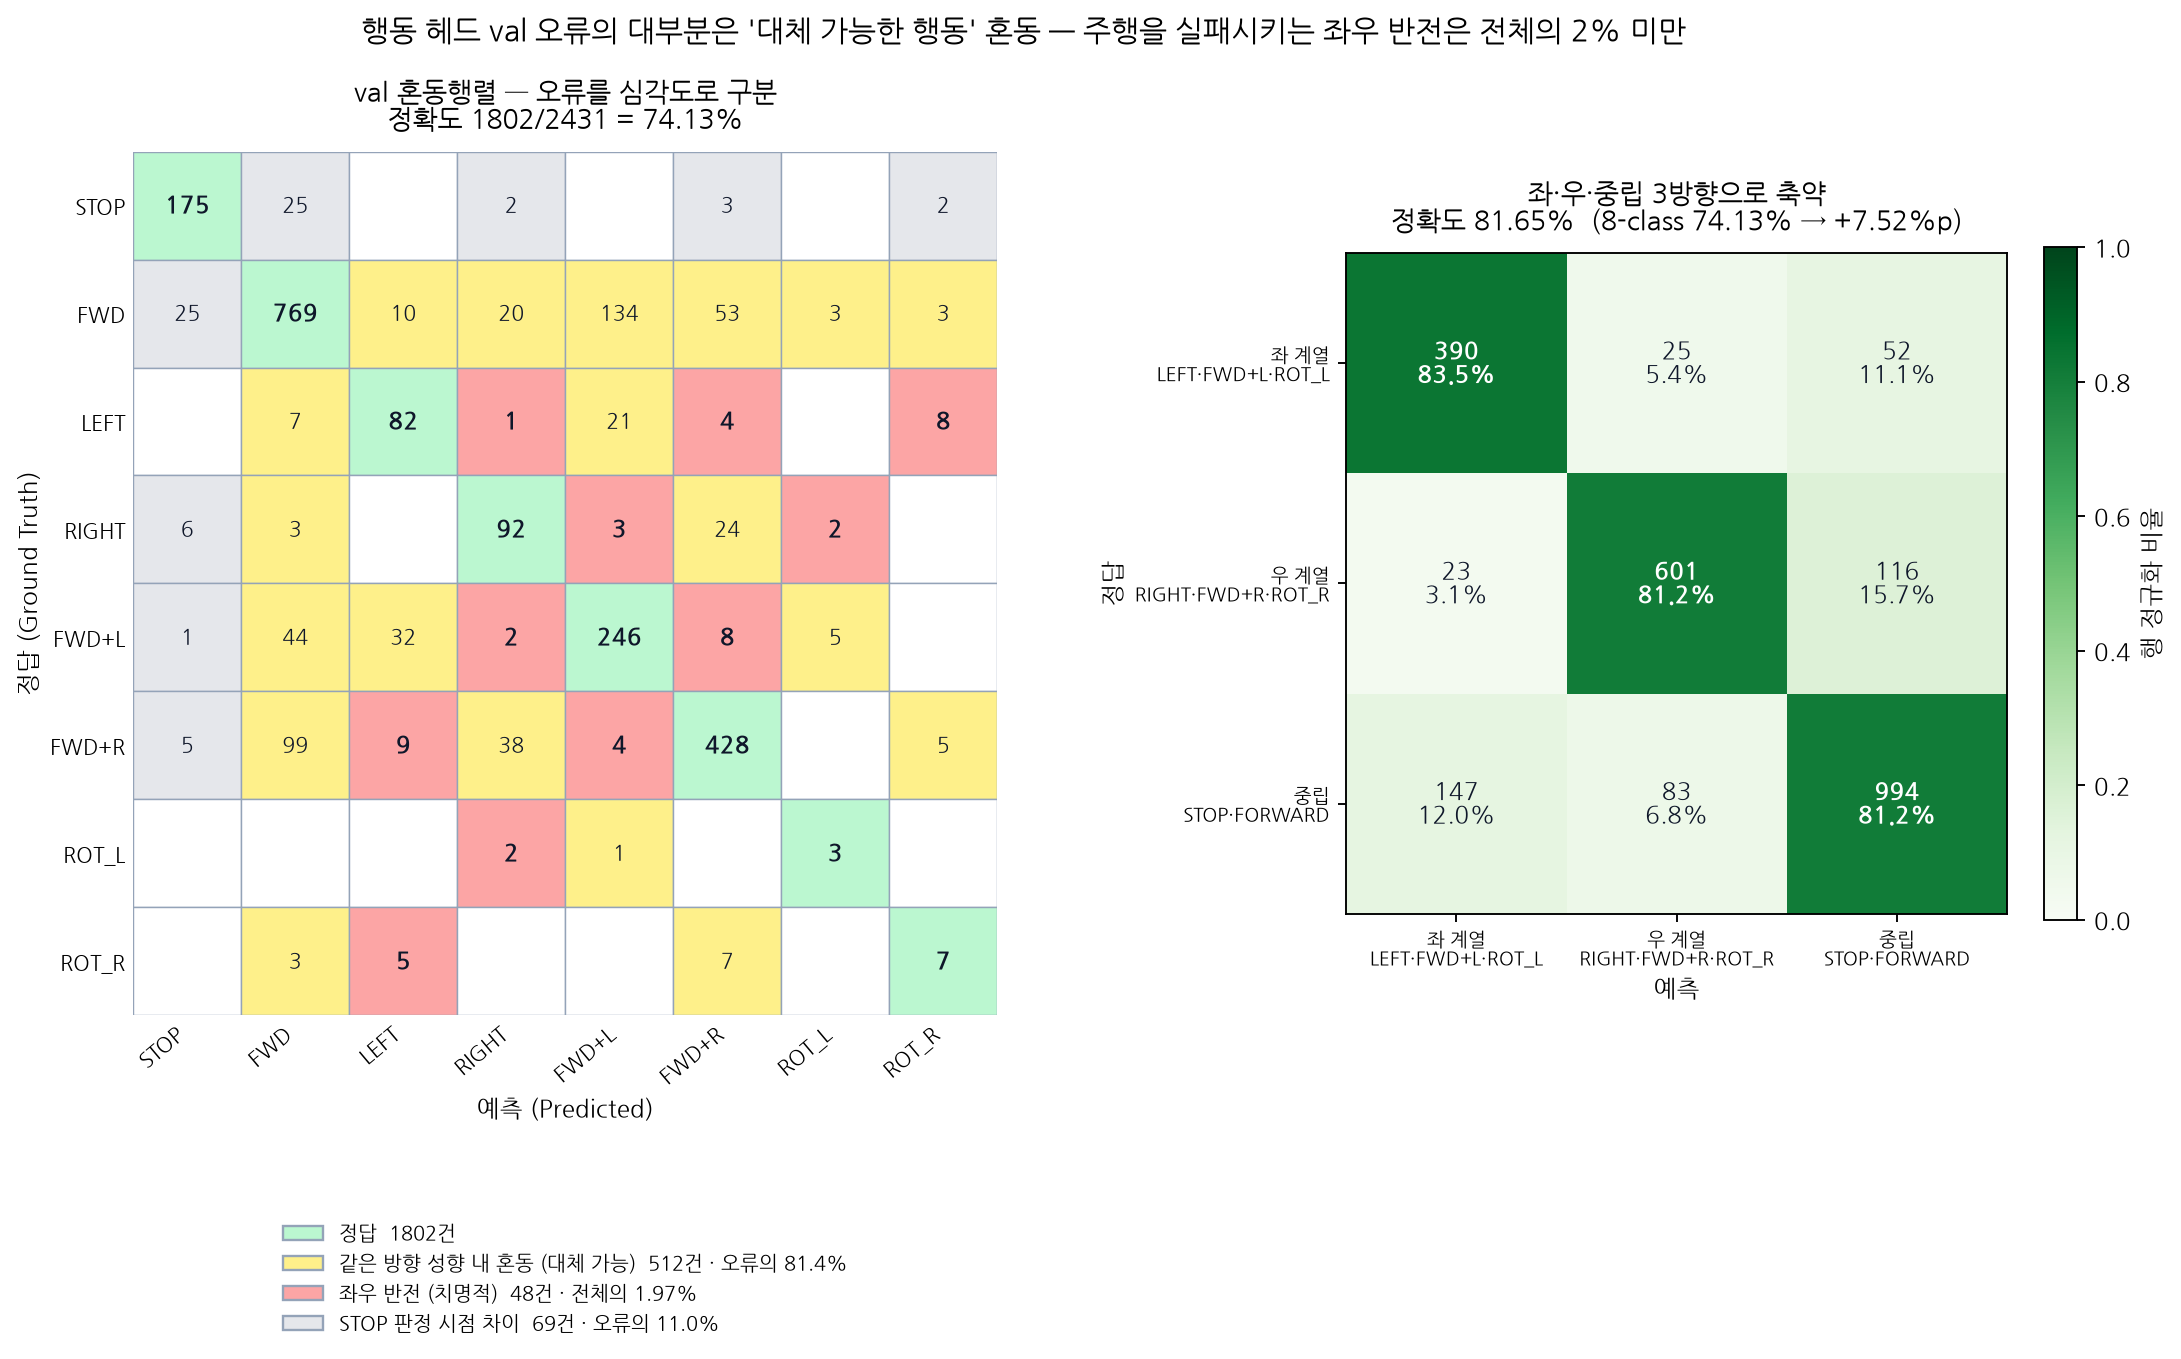
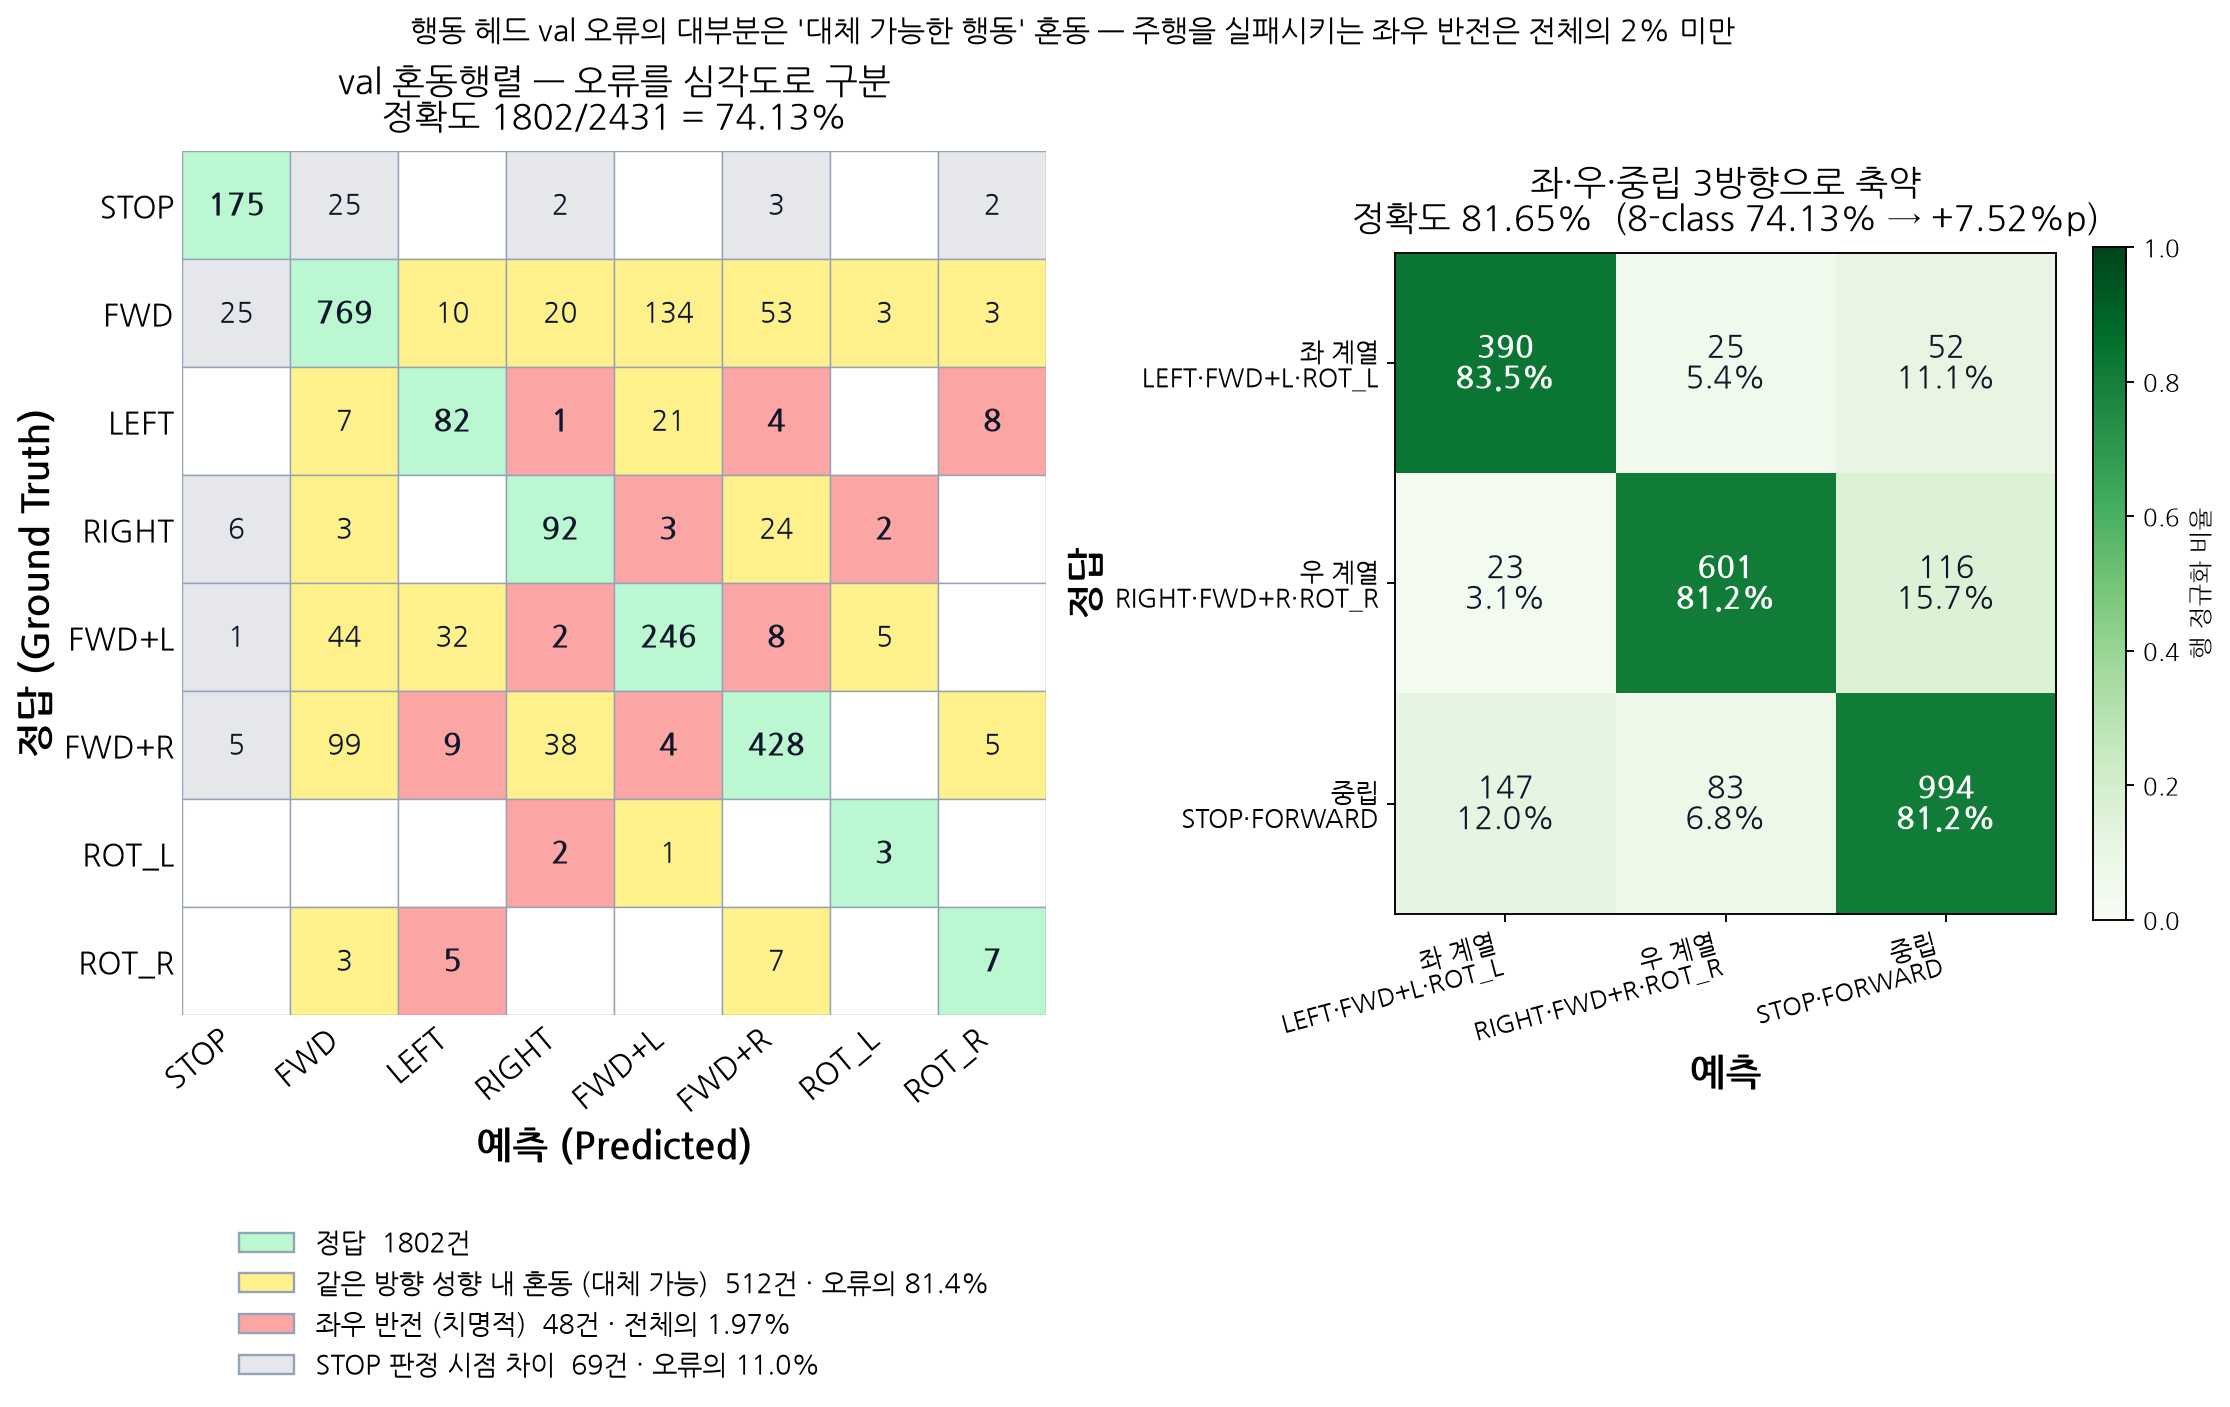
docs: enlarge axis-label fonts on two figures per author's red TODO notes
stage1_v3_training_curve.png had no dedicated plotting script (was
generated ad hoc in a prior session) — recreated it from the raw
train_stage1_v3_5cls_owl.log epoch/val_acc data with axis label fontsize
bumped 10->18. action_head_error_severity.png axis/tick/legend fonts also
bumped (10->16 axis labels, 8.5->11.5 legend) and the 3x3 panel's x-tick
labels rotated to fix an overlap the larger font introduced.

diff --git a/docs/01.paper/revision_briefing.html b/docs/01.paper/revision_briefing.html
@@ -397,12 +397,12 @@ CharShape 73개 전수 대조로 문서 전체에서 빨간 글씨(RGB 255,0,0) 
 <th style="padding:6px 8px">위치</th><th style="padding:6px 8px">메모 내용</th><th style="padding:6px 8px">상태</th>
 </tr>
 <tr style="border-bottom:1px solid #1e293b;background:rgba(74,222,128,0.06)"><td style="padding:6px 8px">§5.5 첫 문단</td><td style="padding:6px 8px">[레퍼런스 필요]</td><td style="padding:6px 8px;color:#4ade80">✅ 해소됨 — A/B/C 3편 확정(위 레퍼런스 표 참조)</td></tr>
-<tr style="border-bottom:1px solid #1e293b"><td style="padding:6px 8px">image_proj accuracy 그림 직전</td><td style="padding:6px 8px">"그래프에서 x, y축 라벨이 크게 보이도록 해야 함"</td><td style="padding:6px 8px;color:#f87171">❌ 미반영 — <code>stage1_v3_training_curve.png</code> 라벨 폰트 확대 필요</td></tr>
+<tr style="border-bottom:1px solid #1e293b;background:rgba(74,222,128,0.06)"><td style="padding:6px 8px">image_proj accuracy 그림 직전</td><td style="padding:6px 8px">"그래프에서 x, y축 라벨이 크게 보이도록 해야 함"</td><td style="padding:6px 8px;color:#4ade80">✅ 반영됨 — <code>stage1_v3_training_curve.png</code> 축 라벨 폰트 확대(18pt) 재생성</td></tr>
 <tr style="border-bottom:1px solid #1e293b"><td style="padding:6px 8px">image_proj accuracy 그림 직후</td><td style="padding:6px 8px">"Loss 그래프가 있으면 추가 필요함"</td><td style="padding:6px 8px;color:#f87171">❌ 미반영 — Stage 1 학습에 <strong>loss 로깅 자체가 없음</strong>(로그·JSON에 val_acc만 기록). loss 곡선을 그리려면 재학습하며 epoch별 loss를 새로 저장해야 함</td></tr>
-<tr><td style="padding:6px 8px">오류 심각도 표 직후</td><td style="padding:6px 8px">"그래프에서 x, y축 라벨이 크게 보이도록 해야 함"</td><td style="padding:6px 8px;color:#f87171">❌ 미반영 — <code>action_head_error_severity.png</code> 라벨 폰트 확대 필요</td></tr>
+<tr style="background:rgba(74,222,128,0.06)"><td style="padding:6px 8px">오류 심각도 표 직후</td><td style="padding:6px 8px">"그래프에서 x, y축 라벨이 크게 보이도록 해야 함"</td><td style="padding:6px 8px;color:#4ade80">✅ 반영됨 — <code>action_head_error_severity.png</code> 축 라벨 폰트 확대(16pt) 재생성</td></tr>
 </table>
-<div class="cf-item" style="margin-top:10px"><input type="checkbox" id="qa-13"><label for="qa-13">
-두 그림(stage1_v3_training_curve.png, action_head_error_severity.png) 축 라벨 폰트 확대 재생성
+<div class="cf-item" style="margin-top:10px"><input type="checkbox" id="qa-13" checked><label for="qa-13">
+두 그림(stage1_v3_training_curve.png, action_head_error_severity.png) 축 라벨 폰트 확대 재생성 — 완료
 </label></div>
 <div class="cf-item"><input type="checkbox" id="qa-14"><label for="qa-14">
 image_proj Stage 1 재학습 시 epoch별 train/val loss 로깅 추가 → loss 곡선 생성 (현재 스크립트엔 loss 기록 코드 없음, <code>scripts/train_stage1_v3_5cls_owl.py</code> 수정 필요)

diff --git a/scripts/plot_action_head_error_severity.py b/scripts/plot_action_head_error_severity.py
@@ -69,16 +69,16 @@ def main():
             if v > 0:
                 bold = (i == j) or (k == "flip")
                 ax.text(j + .5, n - 1 - i + .5, str(v), ha="center", va="center",
-                        fontsize=10 if bold else 9,
+                        fontsize=13 if bold else 12,
                         fontweight="bold" if bold else "normal",
                         color="#0f172a")
     ax.set_xlim(0, n); ax.set_ylim(0, n)
-    ax.set_xticks(np.arange(n) + .5); ax.set_xticklabels(names, rotation=40, ha="right", fontsize=9)
-    ax.set_yticks(np.arange(n) + .5); ax.set_yticklabels(names[::-1], fontsize=9)
-    ax.set_xlabel("예측 (Predicted)", fontsize=10)
-    ax.set_ylabel("정답 (Ground Truth)", fontsize=10)
+    ax.set_xticks(np.arange(n) + .5); ax.set_xticklabels(names, rotation=40, ha="right", fontsize=13)
+    ax.set_yticks(np.arange(n) + .5); ax.set_yticklabels(names[::-1], fontsize=13)
+    ax.set_xlabel("예측 (Predicted)", fontsize=16, fontweight="bold")
+    ax.set_ylabel("정답 (Ground Truth)", fontsize=16, fontweight="bold")
     ax.set_title(f"val 혼동행렬 — 오류를 심각도로 구분\n정확도 {correct}/{total} = {correct/total*100:.2f}%",
-                 fontsize=11.5, pad=10)
+                 fontsize=15, pad=10)
     ax.set_aspect("equal")
     for s in ax.spines.values():
         s.set_visible(False)
@@ -91,7 +91,7 @@ def main():
               label=f"좌우 반전 (치명적)  {agg_n['flip']}건 · 전체의 {agg_n['flip']/total*100:.2f}%"),
         Patch(facecolor=C_STOP, edgecolor="#94a3b8",
               label=f"STOP 판정 시점 차이  {agg_n['stop']}건 · 오류의 {agg_n['stop']/err*100:.1f}%"),
-    ], loc="upper center", bbox_to_anchor=(0.5, -0.22), fontsize=8.5, frameon=False)
+    ], loc="upper center", bbox_to_anchor=(0.5, -0.22), fontsize=11.5, frameon=False)
 
     # ── 우: 3x3 축약 ──
     ax2 = fig.add_subplot(gs[1])
@@ -107,13 +107,13 @@ def main():
     for i in range(3):
         for j in range(3):
             ax2.text(j, i, f"{a[i][j]}\n{rown[i][j]*100:.1f}%", ha="center", va="center",
-                     fontsize=10, fontweight="bold" if i == j else "normal",
+                     fontsize=13, fontweight="bold" if i == j else "normal",
                      color="white" if rown[i][j] > .55 else "#0f172a")
-    ax2.set_xticks(range(3)); ax2.set_xticklabels(lab3, fontsize=8)
-    ax2.set_yticks(range(3)); ax2.set_yticklabels(lab3, fontsize=8)
-    ax2.set_xlabel("예측", fontsize=10); ax2.set_ylabel("정답", fontsize=10)
+    ax2.set_xticks(range(3)); ax2.set_xticklabels(lab3, fontsize=10.5, rotation=15, ha="right")
+    ax2.set_yticks(range(3)); ax2.set_yticklabels(lab3, fontsize=11)
+    ax2.set_xlabel("예측", fontsize=16, fontweight="bold"); ax2.set_ylabel("정답", fontsize=16, fontweight="bold")
     ax2.set_title(f"좌·우·중립 3방향으로 축약\n정확도 {acc3*100:.2f}%  (8-class 74.13% → +{acc3*100-74.13:.2f}%p)",
-                  fontsize=11.5, pad=10)
+                  fontsize=15, pad=10)
     fig.colorbar(im, ax=ax2, fraction=0.046, label="행 정규화 비율")
 
     fig.suptitle("행동 헤드 val 오류의 대부분은 '대체 가능한 행동' 혼동 — 주행을 실패시키는 좌우 반전은 전체의 2% 미만",

diff --git a/scripts/plot_stage1_v3_training_curve.py b/scripts/plot_stage1_v3_training_curve.py
@@ -1,0 +1,37 @@
+#!/usr/bin/env python3
+"""image_proj Stage 1 학습 곡선 재생성 — 축 라벨 폰트 확대 (0817 hwp 빨간 메모 반영)."""
+import re
+import matplotlib
+matplotlib.use("Agg")
+import matplotlib.pyplot as plt
+
+LOG = "/home/minum/26CS/MoNaVLA/logs/train_stage1_v3_5cls_owl.log"
+OUT = "/home/minum/26CS/MoNaVLA/docs/v5/figures/stage1_v3_training_curve.png"
+
+epochs, val_acc, best = [], [], []
+with open(LOG, encoding="utf-8") as f:
+    for line in f:
+        m = re.match(r"^\s*(\d+)\s+([\d.]+)\s+([\d.]+)\s*$", line)
+        if m:
+            epochs.append(int(m.group(1)))
+            val_acc.append(float(m.group(2)) * 100)
+            best.append(float(m.group(3)) * 100)
+
+final = best[-1]
+
+plt.rcParams["font.family"] = "NanumGothic"
+plt.rcParams["axes.unicode_minus"] = False
+plt.rcParams.update({"font.size": 15})
+fig, ax = plt.subplots(figsize=(11, 6.5))
+ax.plot(epochs, val_acc, "o-", color="#38bdf8", label="epoch별 val_acc", linewidth=2, markersize=6)
+ax.plot(epochs, best, "-", color="#22c55e", label="best (누적 최고)", linewidth=3)
+ax.axhline(final, color="#f87171", linestyle="--", linewidth=1.5, label=f"최종 {final:.2f}%")
+ax.set_xlabel("epoch", fontsize=18, fontweight="bold")
+ax.set_ylabel("val 정확도 (%)", fontsize=18, fontweight="bold")
+ax.set_title("image_proj Stage 1 학습 곡선 (5-class, 225ep 체크포인트, 30 epoch 로그)", fontsize=15)
+ax.tick_params(axis="both", labelsize=14)
+ax.legend(fontsize=14, loc="lower right")
+ax.grid(True, alpha=0.3)
+fig.tight_layout()
+fig.savefig(OUT, dpi=150)
+print("wrote", OUT)
